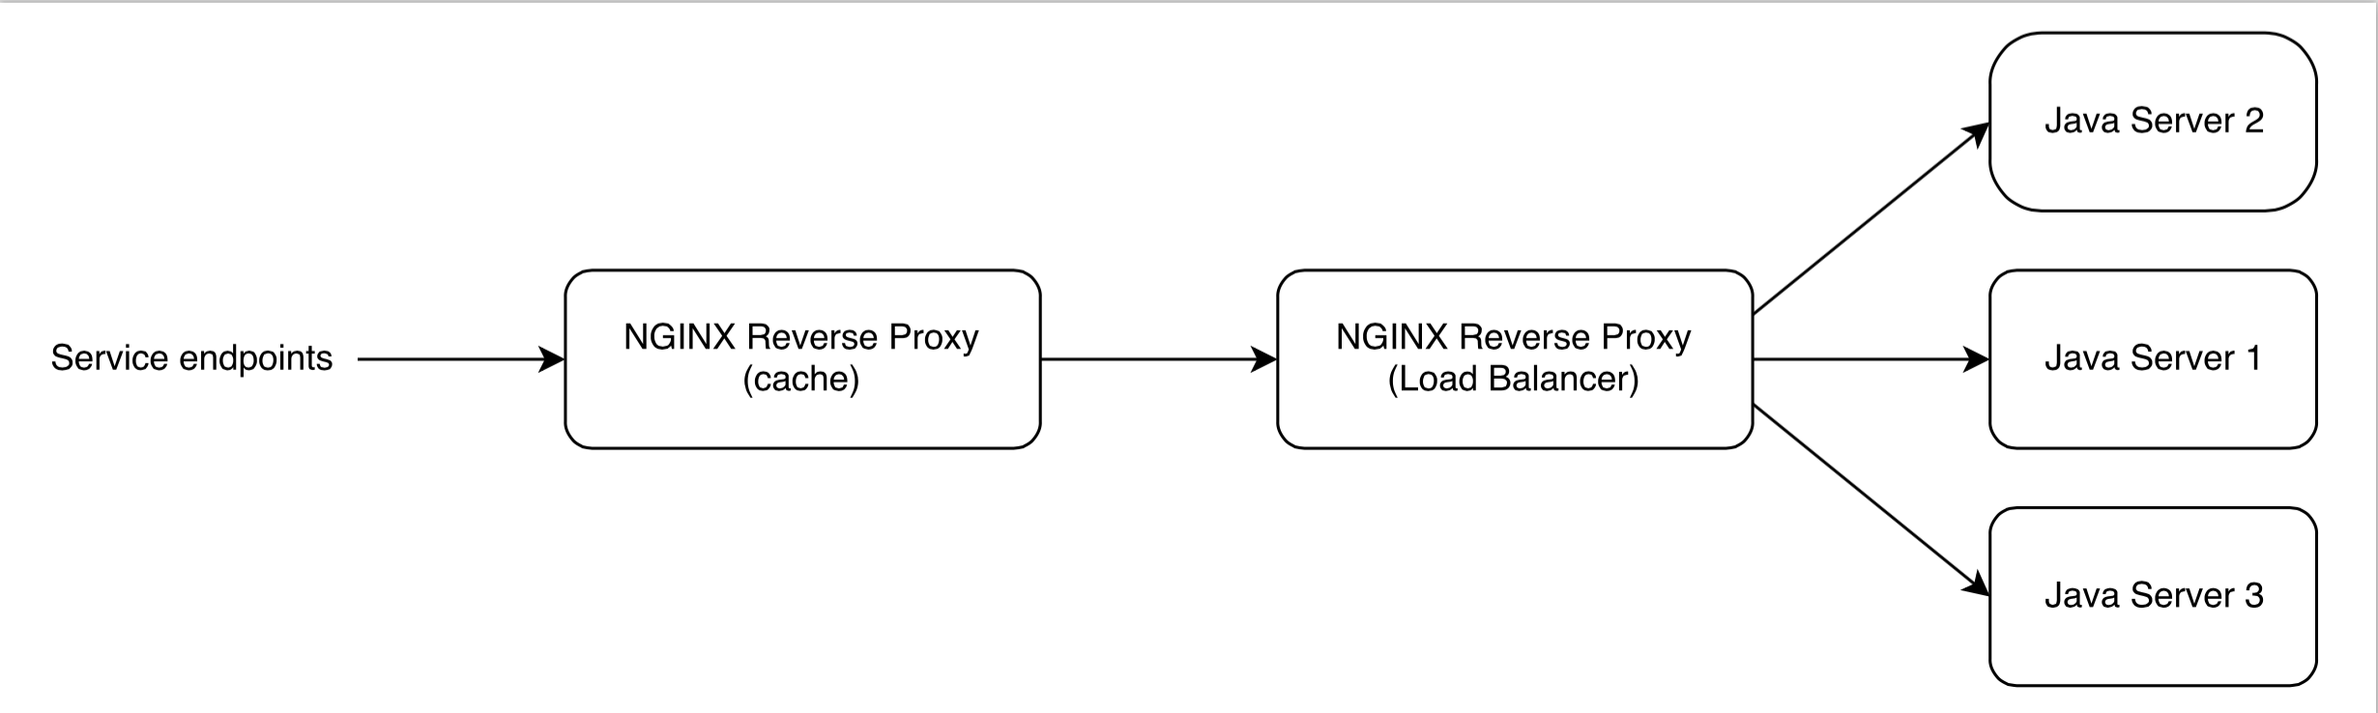
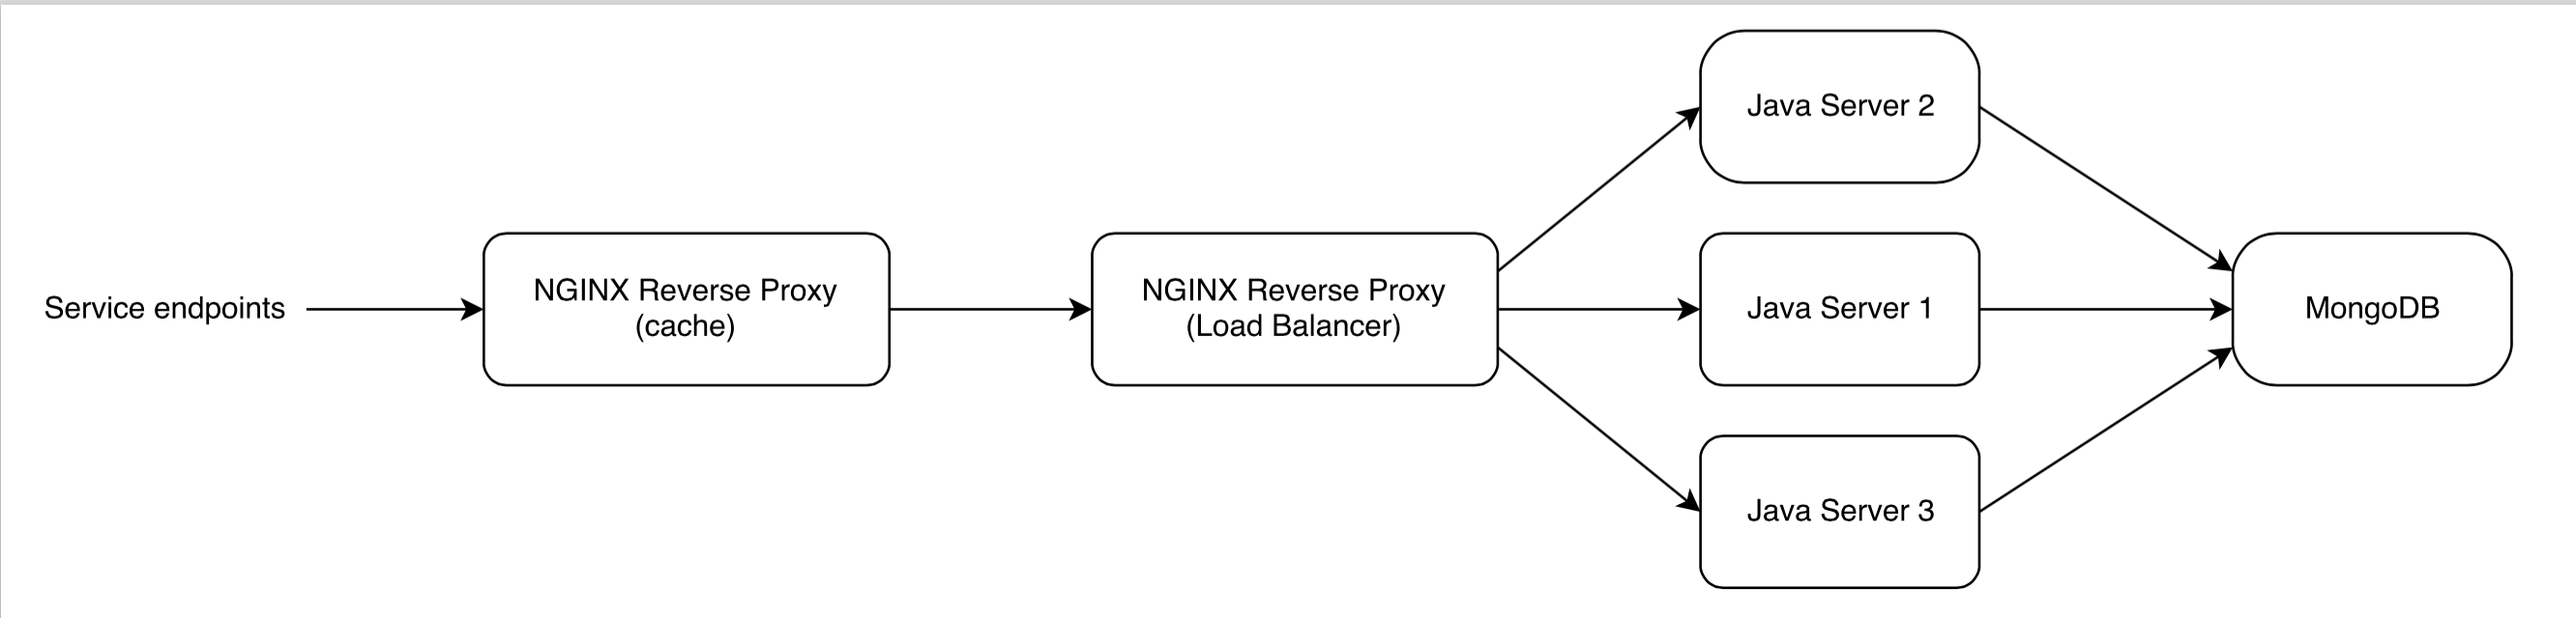
MongoDB layer added to the infrastructure.

diff --git a/src/main/java/com/zenika/restdemo/resources/HealthResource.java b/src/main/java/com/zenika/restdemo/resources/HealthResource.java
@@ -1,10 +1,13 @@
 package com.zenika.restdemo.resources;
 
+import com.mongodb.Mongo;
+import com.mongodb.MongoException;
 import org.springframework.stereotype.Component;
 
 import javax.ws.rs.GET;
 import javax.ws.rs.Path;
 import javax.ws.rs.Produces;
+import javax.ws.rs.core.Response;
 
 /**
  * User: sennen
@@ -16,7 +19,21 @@ import javax.ws.rs.Produces;
 public class HealthResource {
   @GET
   @Produces({"text/plain;charset=utf-8"})
-  public String health() {
-    return "Up and running !";
+  public Response health() {
+    if (isMongoUp()) {
+      return Response.ok().entity("Up and running").build();
+    }
+    return Response.serverError().entity("Up and running but mongo is down").build();
+  }
+
+  // Usage of deprecated methods but no other way to check if mongo is up
+  private static boolean isMongoUp() {
+    try {
+      Mongo mongo = new Mongo("api-shop-mongo");
+      mongo.isLocked();
+      return true;
+    } catch (MongoException e) {
+      return false;
+    }
   }
 }

diff --git a/README.md b/README.md
@@ -1,27 +1,27 @@
 # Shopping REST-style
 
-This repo provides a minimalistic infrastructure for a backend REST architecture deployed for an imaginary shopping application.
-The figure below shows the simple architecture diagram which is implemented.
+This repo provides a sample infrastructure for a backend REST architecture deployed for a shopping application.  
+Below, a representation of the implemented architecture.
 ![Illustration Architecture Globale](ArchiGlobale.png)
-This is a demo providing practical basis for a theoretical approach to REST architectures.  
+It provides a practical basis to study a REST architecture and mechanisms involved.  
 All the components are launched locally via Docker.  
 Details to launch and stop the infrastructure are provided below.  
 
-## What do you need to launch it ?
+## What do you need ?
 JDK 8, Docker, Gradle
 
 ## Build Java application and start/restart infrastructure
-**This is what you must do this when running it for the first time**  
-`./launch-shop-infrastructure.sh` and `./stop-delete-shop-infrastructure.sh` must have execution right.  
-Then just run `gradle install launchInfra`
+###Instructions for first execution
+Following scripts **must have execution rights** : `./launch-shop-infrastructure.sh`,  `./stop-delete-shop-infrastructure.sh`.  
+Run `gradle install launchInfra`. It builds the project. Then it stops and removes Docker containers and images before rebuilding and launching each component.
 
 ## Start/restart infrastructure
-`./launch-shop-infrastructure.sh` and `./stop-delete-shop-infrastructure.sh` must have execution right.  
-Then just run `gradle launchInfra`
+Following scripts **must have execution rights** : `./launch-shop-infrastructure.sh`,  `./stop-delete-shop-infrastructure.sh`.  
+Run `gradle launchInfra`. It stops and removes Docker containers and images before rebuilding and launching each component.
 
 ## Stop the infrastructure
-`./stop-delete-shop-infrastructure.sh` must have execution right.  
-Then run `gradle stopAndDeleteInfra`
+Following script **must have execution rights** :  `./stop-delete-shop-infrastructure.sh`.  
+Run `gradle stopAndDeleteInfra`. It stops and removes Docker containers.
 
 ## Check if everything is deployed
 Run `docker ps`. You should get something like :  
@@ -33,7 +33,7 @@ CONTAINER ID        IMAGE                           COMMAND                CREAT
 06c24ede08a8        api-shop-server:latest          "bash /usr/local/bin   About an hour ago   Up About an hour    0.0.0.0:49220->8080/tcp                         api-shop-server-2
 b7e4ca71ac2a        api-shop-server:latest          "bash /usr/local/bin   About an hour ago   Up About an hour    0.0.0.0:49219->8080/tcp                         api-shop-server-1
 ```
-**Ports for container api-shop-front** are what we are looking for. Just take the port corresponding to 80/tcp (in our example 49225).  
+**Ports for container api-shop-front** are what we are looking for. Just take the port corresponding to api-shop-front -> 80/tcp (in the example above 49225).  
 On Linux, you can check everything is fine by making HTTP GET request on `http://localhost:PORT_FOR_80/health`.  
 On MacOS, get boot2docker IP first `boot2docker ip`. Then you can check everything is fine by making HTTP GET request on `http://BOOT_2_DOCKER_IP:PORT_FOR_80/health`.  
-You should get **Up and running!** if everything is deployed.
+You will get a 200 and **Up and running!** if everything is fine.
